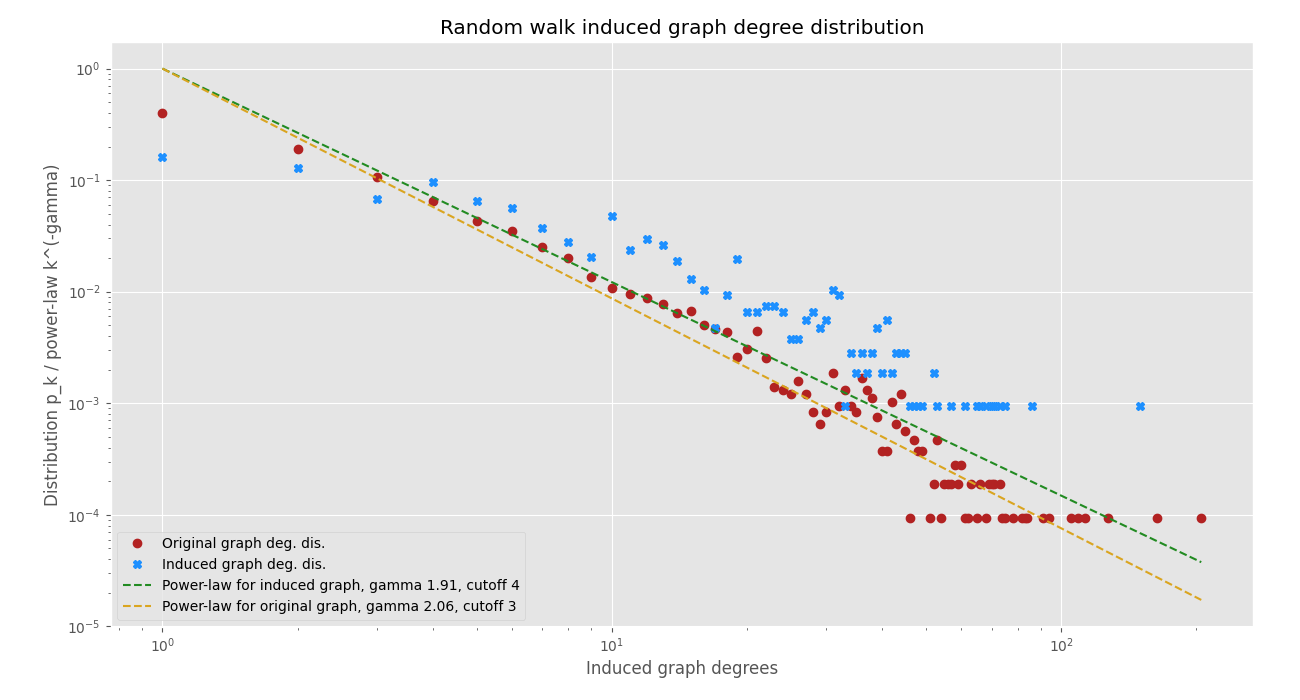
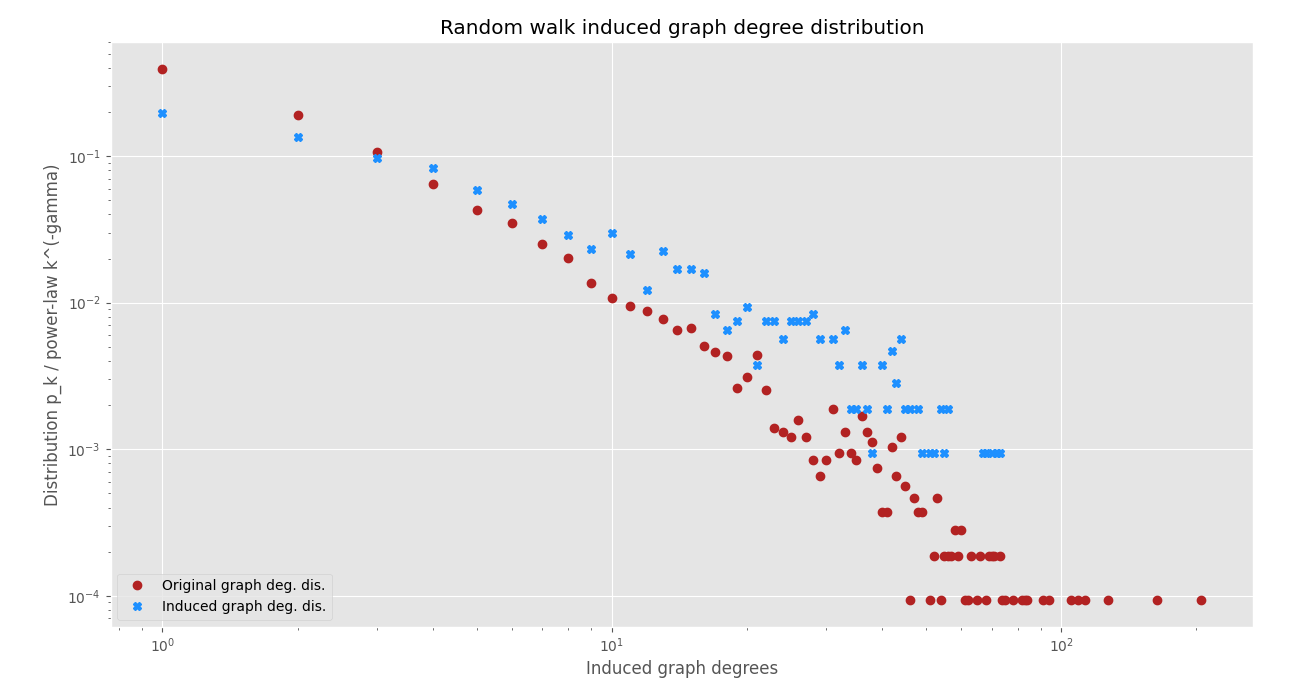
Task 4 code slight edit

diff --git a/task4.py b/task4.py
@@ -39,7 +39,9 @@ def plot():
     cutoff = 3
     cutoff_induced = 4
 
-    # Original graph distribution, gamma
+    """
+    Original graph distribution, gamma
+    """
     graph, labels = read_graph("social", directed=False)
     n = graph.number_of_nodes()
     # print(f"Checking if our original graph is small world.")
@@ -50,9 +52,10 @@ def plot():
     gamma = calculate_gamma(degrees, cutoff)
     # print(f"Gamma for original graph (cutoff {cutoff}): {gamma}\n")
     distribution = degree_distribution(degrees, n)
-    max_degree = max(degrees)
-
-    # Random walk induced graph and the distribution
+    
+    """
+    Random walk induced graph and the distribution
+    """
     induced = random_walk_induced_graph(graph)
     n_induced = induced.number_of_nodes()
     # print(f"Checking if our induced graph is small world.")
@@ -64,20 +67,11 @@ def plot():
     print(f"Gamma for induced graph (cutoff {cutoff_induced}): {gamma_induced}\n")
     distribution_induced = degree_distribution(degrees_induced, n_induced)
     
-    # Power laws
-    power_law_x = range(1, max_degree + 1)
-    power_law_original = [elem ** (-gamma) for elem in power_law_x]
-    power_law_induced = [elem ** (-gamma_induced) for elem in power_law_x]
-    
     # Plot
     plt.style.use("ggplot")
     plt.figure(figsize=(13, 7))
     plt.plot(distribution.keys(), distribution.values(), 'o', color="firebrick", label=f"Original graph deg. dis.")
     plt.plot(distribution_induced.keys(), distribution_induced.values(), 'X', color="dodgerblue", label=f"Induced graph deg. dis.")
-    plt.plot(power_law_x, power_law_induced, "--", color="forestgreen", 
-        label=f"Power-law for induced graph, gamma {round(gamma_induced, 2)}, cutoff {cutoff_induced}")
-    plt.plot(power_law_x, power_law_original, "--", color="goldenrod", 
-        label=f"Power-law for original graph, gamma {round(gamma, 2)}, cutoff {cutoff}")
     plt.xlabel("Induced graph degrees")
     plt.ylabel("Distribution p_k / power-law k^(-gamma)")
     plt.xscale("log")
@@ -98,10 +92,10 @@ Gamma for original graph (cutoff 3): 2.0605610597029367
 Gamma for original graph (cutoff 4): 2.152434367238218
 Gamma for original graph (cutoff 5): 2.232880279297983
 
-Checking if our induced graph is ultra small world.
-        Average distance: 5.525734584346886
-        ln(n) / ln(<k>): 2.969112093861218
-        Average clustering: 0.46075452939143896
+Checking if our induced graph is small world.
+        Average distance: 5.37645890153709
+        ln(n) / ln(<k>): 2.9585690314304176
+        Average clustering: 0.5219598869809366
 Gamma for induced graph (cutoff 3): 1.7318751394190044 (varies between 1.7x and 1.8x)
 Gamma for induced graph (cutoff 4): 1.8966716742827932 (varies between 1.8x and 1.9x)
 Gamma for induced graph (cutoff 5): 2.06510132214632 (varies between 1.9x and 2.0x)
